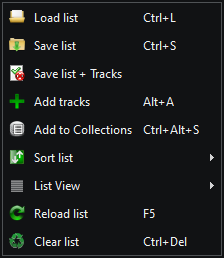
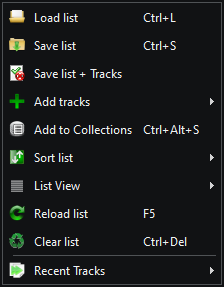
User Guide

diff --git a/docs/index.md b/docs/index.md
@@ -745,7 +745,9 @@ Some of these options might not be available for some type of Tracks.
     Saves a KataLib `.lst` or a WinAmp playlist, but also creates a folder with the list's Track files, named after the Playlist's name plus a "_tracks" suffix.  
     If the Playlist contains YouTube links, they will be converted using the current Conversion settings.
 - **Add Tracks**  
-    Just adds media files as Tracks to the Playlist.
+    Opens a sub-menu to select what kind of Tracks we want to add to the Playlist.
+  - Tracks from local files (audio/video media files)
+  - Tracks from a YouTube link (can be a single Track or a YouTube Playlist)
 - **Add to Collections**  
     Adds the current Playlist as a Collection to the **[Library Collections](#library-collections)**.
 - **Sort list**  
@@ -837,7 +839,7 @@ ___
 | Reload PlayList            | F5         |
 | Add PlayList as Collection | Ctrl+Alt+S |
 | Find Track                 | Ctrl+F     |
-| Add Tracks                 | Alt+A      |
+| Add Tracks (local files)   | Alt+A      |
 | Remove Tracks              | Del        |
 | Delete Tracks              | Shift+Del  |
 | Repeat All                 | Alt+R      |
